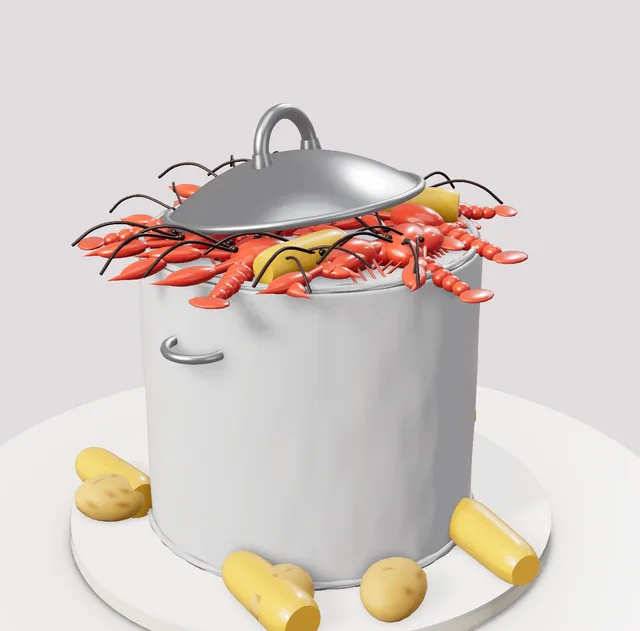
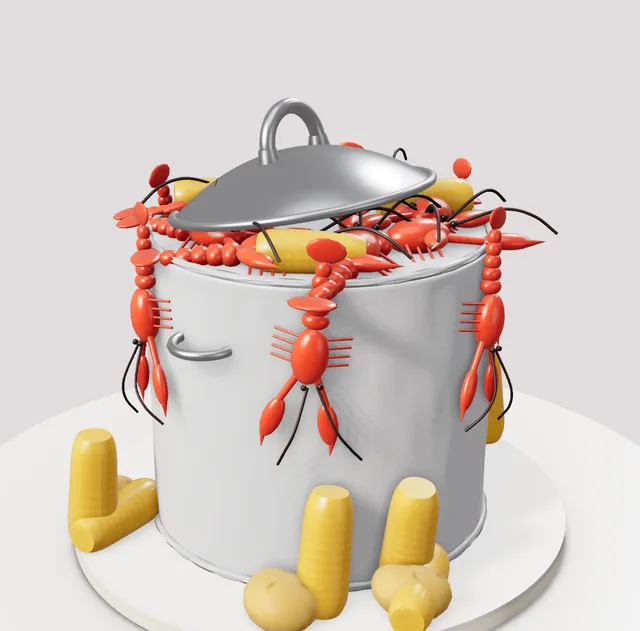
Crawfish pot: crawfish hanging over the rim, standing corn (new decor)
Claude-Session: https://claude.ai/code/session_016sN14hzH19WJ5zrp8o2QGp

diff --git a/studio.html b/studio.html
@@ -1594,6 +1594,15 @@ function scriptTopParts(q,c,mode,dc){const MF=MSG_FONTS[(dc&&dc.font)||'dancing'
 DECOR.scripttop={label:'Script Word Topper',layouts:['cluster'],layout:'cluster',count:1,max:1,color:'#d9a08a',colors:['#d9a08a','#d4ae5a','#c9ccd2','#1d1b1f','#fbf7f1'],sp:.4,side:'up',sink:.6,tilt:[0,0],spin:0,make:scriptTopParts};
 DECOR_ICONS.scripttop=di('<text x="20" y="24" font-size="13" text-anchor="middle" fill="#d9a08a" font-style="italic" font-family="cursive">love</text>');
 {const c=DECOR_CATS.find(x=>x.key==='signature');c.items.push('scripttop')}
+// ---- crawfish hanging over a rim (side piece) ----
+function crawHangParts(q,c,mode,dc){const p=crawfishParts(q,c,mode,dc);for(const[,g]of p){g.rotateX(PI/2);g.rotateZ((q()-.5)*.7)}return p}
+DECOR.crawhang={label:'Crawfish Over The Rim',layouts:['band'],layout:'band',count:5,max:16,color:'#d2381e',colors:['#d2381e','#b52a14'],sp:.9,roll:.3,sink:0,embed:.02,make:crawHangParts};
+DECOR_ICONS.crawhang=DECOR_ICONS.crawfish;
+{const c=DECOR_CATS.find(x=>x.key==='signature');c.items.push('crawhang')}
+function cornUpParts(q,c,mode,dc){const p=cornParts(q,c,mode,dc);for(const[,g]of p){g.computeBoundingBox();const b=g.boundingBox;g.rotateZ(PI/2+(q()-.5)*.35)}return p}
+DECOR.cornup={label:'Standing Corn',layouts:['cluster','crown','scatter'],layout:'cluster',count:3,max:12,color:'#f2c230',colors:['#f2c230','#f6d76a'],sp:.7,side:'up',sink:.02,tilt:[0,0],make:cornUpParts};
+DECOR_ICONS.cornup=DECOR_ICONS.corncob;
+{const c=DECOR_CATS.find(x=>x.key==='signature');c.items.push('cornup')}
 
 // ---------- Signature cakes: Sprinkle Me Silly's real cakes, rebuilt in the Studio ----------
 const SIG='Signature Cakes';
@@ -1648,7 +1657,7 @@ THEMES.unshift(
   newTier(11,4.8,{color:'#fbf7f1',finish:'fondant',top:'none',bottom:'none',stencil:{pattern:'chevron',color:'#1d1b1f',size:1.4,height:4.6},decor:[DC('plaque','band',1,{color:'#1d1b1f',size:270,R:5.5,rot:55,y:.3}),DC('clapper','band',1,{size:210,rot:-40}),DC('stars','scatter',14,{mix:['#f38ab0','#5fc8d8','#f2c230'],size:210}),DC('dragees','scatter',20,{color:'#f2c230',size:140})]}),
   newTier(7.8,8.4,{color:'#fbf7f1',finish:'fondant',prof:'bucket',stencil:{pattern:'stripes',color:'#d62839',size:1.3,height:8.2},top:'rope',pipe:'#fbf7f1',bottom:'none',decor:[DC('poplabel','band',1,{color:'#d62839',size:200,R:3.7,rot:55,y:.6}),DC('popcorn','cluster',120,{color:'#f8efd4',size:260}),DC('ticket','cluster',1,{color:'#f6cf5a',size:300,center:true,face:95}),DC('stars','cluster',5,{mix:['#f38ab0','#5fc8d8','#f2c230'],size:240})]})]}},
  {key:'sig_crawfish',name:'Crawfish Boil Pot',tag:SIG,blurb:'A brushed silver stock pot cake with a tilted lid and loop handles, spilling over with crawfish and corn, with potatoes and corn on the board.',d:{board:'white',boardColor:'#ece5d3',topper:'none',tiers:[
-  newTier(8,7,{color:'#c4c8ce',finish:'fondant',texture:'brushed',top:'rope',pipe:'#aeb2b8',bottom:'rope',bottomColor:'#aeb2b8',decor:[DC('pothandle','band',2,{color:'#c9ccd2',size:160,y:2,rot:95}),DC('potlid2','cluster',1,{color:'#c9ccd2',size:300,center:true}),DC('crawfish','crown',9,{color:'#d2381e',size:300}),DC('corncob','crown',3,{color:'#eeb31c',size:250,rot:60}),DC('crawfish','cascade',5,{color:'#d2381e',rot:-60,size:260}),DC('crawfish','cascade',4,{color:'#d2381e',rot:-10,size:250}),DC('corncob','cluster',5,{color:'#eeb31c',size:300,where:'board'}),DC('potato','cluster',5,{color:'#c99a45',size:320,where:'board'})]})]}},
+  newTier(8,7,{color:'#c4c8ce',finish:'fondant',texture:'brushed',top:'rope',pipe:'#aeb2b8',bottom:'rope',bottomColor:'#aeb2b8',decor:[DC('pothandle','band',2,{color:'#c9ccd2',size:160,y:2,rot:95}),DC('potlid2','cluster',1,{color:'#c9ccd2',size:300,center:true}),DC('crawfish','crown',9,{color:'#d2381e',size:300}),DC('corncob','crown',3,{color:'#eeb31c',size:250,rot:60}),DC('crawhang','band',6,{color:'#d2381e',size:240,y:2.2}),DC('cornup','cluster',4,{color:'#eeb31c',size:300,where:'board',seed:3}),DC('corncob','cluster',2,{color:'#eeb31c',size:280,where:'board',seed:9}),DC('potato','cluster',5,{color:'#c99a45',size:320,where:'board'})]})]}},
  {key:'sig_bee',name:'Bumble Bee Garden',tag:SIG,blurb:'A smooth yellow dome bee head with big eyes and a smile, a fuzzy black piped collar, looped antennae and a garden of piped grass and sugar flowers.',d:{board:'white',boardColor:'#c9d96a',topper:'none',tiers:[
   newTier(13,1.6,{color:'#5cae4a',texture:'grass',top:'none',bottom:'none',decor:[DC('daisies','scatter',12,{color:'#fbf7f1',size:130}),DC('blossoms','scatter',18,{mix:['#f3a6c0','#f2c230','#7fb0e8','#e8475f'],size:130})]}),
   newTier(10.4,2.2,{color:'#1d1b1f',texture:'fur',top:'none',bottom:'none'}),

diff --git a/tools/signature-decor.js b/tools/signature-decor.js
@@ -262,6 +262,15 @@ function scriptTopParts(q,c,mode,dc){const MF=MSG_FONTS[(dc&&dc.font)||'dancing'
 DECOR.scripttop={label:'Script Word Topper',layouts:['cluster'],layout:'cluster',count:1,max:1,color:'#d9a08a',colors:['#d9a08a','#d4ae5a','#c9ccd2','#1d1b1f','#fbf7f1'],sp:.4,side:'up',sink:.6,tilt:[0,0],spin:0,make:scriptTopParts};
 DECOR_ICONS.scripttop=di('<text x="20" y="24" font-size="13" text-anchor="middle" fill="#d9a08a" font-style="italic" font-family="cursive">love</text>');
 {const c=DECOR_CATS.find(x=>x.key==='signature');c.items.push('scripttop')}
+// ---- crawfish hanging over a rim (side piece) ----
+function crawHangParts(q,c,mode,dc){const p=crawfishParts(q,c,mode,dc);for(const[,g]of p){g.rotateX(PI/2);g.rotateZ((q()-.5)*.7)}return p}
+DECOR.crawhang={label:'Crawfish Over The Rim',layouts:['band'],layout:'band',count:5,max:16,color:'#d2381e',colors:['#d2381e','#b52a14'],sp:.9,roll:.3,sink:0,embed:.02,make:crawHangParts};
+DECOR_ICONS.crawhang=DECOR_ICONS.crawfish;
+{const c=DECOR_CATS.find(x=>x.key==='signature');c.items.push('crawhang')}
+function cornUpParts(q,c,mode,dc){const p=cornParts(q,c,mode,dc);for(const[,g]of p){g.computeBoundingBox();const b=g.boundingBox;g.rotateZ(PI/2+(q()-.5)*.35)}return p}
+DECOR.cornup={label:'Standing Corn',layouts:['cluster','crown','scatter'],layout:'cluster',count:3,max:12,color:'#f2c230',colors:['#f2c230','#f6d76a'],sp:.7,side:'up',sink:.02,tilt:[0,0],make:cornUpParts};
+DECOR_ICONS.cornup=DECOR_ICONS.corncob;
+{const c=DECOR_CATS.find(x=>x.key==='signature');c.items.push('cornup')}
 
 // ---------- Signature cakes: Sprinkle Me Silly's real cakes, rebuilt in the Studio ----------
 const SIG='Signature Cakes';
@@ -316,7 +325,7 @@ THEMES.unshift(
   newTier(11,4.8,{color:'#fbf7f1',finish:'fondant',top:'none',bottom:'none',stencil:{pattern:'chevron',color:'#1d1b1f',size:1.4,height:4.6},decor:[DC('plaque','band',1,{color:'#1d1b1f',size:270,R:5.5,rot:55,y:.3}),DC('clapper','band',1,{size:210,rot:-40}),DC('stars','scatter',14,{mix:['#f38ab0','#5fc8d8','#f2c230'],size:210}),DC('dragees','scatter',20,{color:'#f2c230',size:140})]}),
   newTier(7.8,8.4,{color:'#fbf7f1',finish:'fondant',prof:'bucket',stencil:{pattern:'stripes',color:'#d62839',size:1.3,height:8.2},top:'rope',pipe:'#fbf7f1',bottom:'none',decor:[DC('poplabel','band',1,{color:'#d62839',size:200,R:3.7,rot:55,y:.6}),DC('popcorn','cluster',120,{color:'#f8efd4',size:260}),DC('ticket','cluster',1,{color:'#f6cf5a',size:300,center:true,face:95}),DC('stars','cluster',5,{mix:['#f38ab0','#5fc8d8','#f2c230'],size:240})]})]}},
  {key:'sig_crawfish',name:'Crawfish Boil Pot',tag:SIG,blurb:'A brushed silver stock pot cake with a tilted lid and loop handles, spilling over with crawfish and corn, with potatoes and corn on the board.',d:{board:'white',boardColor:'#ece5d3',topper:'none',tiers:[
-  newTier(8,7,{color:'#c4c8ce',finish:'fondant',texture:'brushed',top:'rope',pipe:'#aeb2b8',bottom:'rope',bottomColor:'#aeb2b8',decor:[DC('pothandle','band',2,{color:'#c9ccd2',size:160,y:2,rot:95}),DC('potlid2','cluster',1,{color:'#c9ccd2',size:300,center:true}),DC('crawfish','crown',9,{color:'#d2381e',size:300}),DC('corncob','crown',3,{color:'#eeb31c',size:250,rot:60}),DC('crawfish','cascade',5,{color:'#d2381e',rot:-60,size:260}),DC('crawfish','cascade',4,{color:'#d2381e',rot:-10,size:250}),DC('corncob','cluster',5,{color:'#eeb31c',size:300,where:'board'}),DC('potato','cluster',5,{color:'#c99a45',size:320,where:'board'})]})]}},
+  newTier(8,7,{color:'#c4c8ce',finish:'fondant',texture:'brushed',top:'rope',pipe:'#aeb2b8',bottom:'rope',bottomColor:'#aeb2b8',decor:[DC('pothandle','band',2,{color:'#c9ccd2',size:160,y:2,rot:95}),DC('potlid2','cluster',1,{color:'#c9ccd2',size:300,center:true}),DC('crawfish','crown',9,{color:'#d2381e',size:300}),DC('corncob','crown',3,{color:'#eeb31c',size:250,rot:60}),DC('crawhang','band',6,{color:'#d2381e',size:240,y:2.2}),DC('cornup','cluster',4,{color:'#eeb31c',size:300,where:'board',seed:3}),DC('corncob','cluster',2,{color:'#eeb31c',size:280,where:'board',seed:9}),DC('potato','cluster',5,{color:'#c99a45',size:320,where:'board'})]})]}},
  {key:'sig_bee',name:'Bumble Bee Garden',tag:SIG,blurb:'A smooth yellow dome bee head with big eyes and a smile, a fuzzy black piped collar, looped antennae and a garden of piped grass and sugar flowers.',d:{board:'white',boardColor:'#c9d96a',topper:'none',tiers:[
   newTier(13,1.6,{color:'#5cae4a',texture:'grass',top:'none',bottom:'none',decor:[DC('daisies','scatter',12,{color:'#fbf7f1',size:130}),DC('blossoms','scatter',18,{mix:['#f3a6c0','#f2c230','#7fb0e8','#e8475f'],size:130})]}),
   newTier(10.4,2.2,{color:'#1d1b1f',texture:'fur',top:'none',bottom:'none'}),

diff --git a/tools/sig-themes.js b/tools/sig-themes.js
@@ -51,7 +51,7 @@ THEMES.unshift(
   newTier(11,4.8,{color:'#fbf7f1',finish:'fondant',top:'none',bottom:'none',stencil:{pattern:'chevron',color:'#1d1b1f',size:1.4,height:4.6},decor:[DC('plaque','band',1,{color:'#1d1b1f',size:270,R:5.5,rot:55,y:.3}),DC('clapper','band',1,{size:210,rot:-40}),DC('stars','scatter',14,{mix:['#f38ab0','#5fc8d8','#f2c230'],size:210}),DC('dragees','scatter',20,{color:'#f2c230',size:140})]}),
   newTier(7.8,8.4,{color:'#fbf7f1',finish:'fondant',prof:'bucket',stencil:{pattern:'stripes',color:'#d62839',size:1.3,height:8.2},top:'rope',pipe:'#fbf7f1',bottom:'none',decor:[DC('poplabel','band',1,{color:'#d62839',size:200,R:3.7,rot:55,y:.6}),DC('popcorn','cluster',120,{color:'#f8efd4',size:260}),DC('ticket','cluster',1,{color:'#f6cf5a',size:300,center:true,face:95}),DC('stars','cluster',5,{mix:['#f38ab0','#5fc8d8','#f2c230'],size:240})]})]}},
  {key:'sig_crawfish',name:'Crawfish Boil Pot',tag:SIG,blurb:'A brushed silver stock pot cake with a tilted lid and loop handles, spilling over with crawfish and corn, with potatoes and corn on the board.',d:{board:'white',boardColor:'#ece5d3',topper:'none',tiers:[
-  newTier(8,7,{color:'#c4c8ce',finish:'fondant',texture:'brushed',top:'rope',pipe:'#aeb2b8',bottom:'rope',bottomColor:'#aeb2b8',decor:[DC('pothandle','band',2,{color:'#c9ccd2',size:160,y:2,rot:95}),DC('potlid2','cluster',1,{color:'#c9ccd2',size:300,center:true}),DC('crawfish','crown',9,{color:'#d2381e',size:300}),DC('corncob','crown',3,{color:'#eeb31c',size:250,rot:60}),DC('crawfish','cascade',5,{color:'#d2381e',rot:-60,size:260}),DC('crawfish','cascade',4,{color:'#d2381e',rot:-10,size:250}),DC('corncob','cluster',5,{color:'#eeb31c',size:300,where:'board'}),DC('potato','cluster',5,{color:'#c99a45',size:320,where:'board'})]})]}},
+  newTier(8,7,{color:'#c4c8ce',finish:'fondant',texture:'brushed',top:'rope',pipe:'#aeb2b8',bottom:'rope',bottomColor:'#aeb2b8',decor:[DC('pothandle','band',2,{color:'#c9ccd2',size:160,y:2,rot:95}),DC('potlid2','cluster',1,{color:'#c9ccd2',size:300,center:true}),DC('crawfish','crown',9,{color:'#d2381e',size:300}),DC('corncob','crown',3,{color:'#eeb31c',size:250,rot:60}),DC('crawhang','band',6,{color:'#d2381e',size:240,y:2.2}),DC('cornup','cluster',4,{color:'#eeb31c',size:300,where:'board',seed:3}),DC('corncob','cluster',2,{color:'#eeb31c',size:280,where:'board',seed:9}),DC('potato','cluster',5,{color:'#c99a45',size:320,where:'board'})]})]}},
  {key:'sig_bee',name:'Bumble Bee Garden',tag:SIG,blurb:'A smooth yellow dome bee head with big eyes and a smile, a fuzzy black piped collar, looped antennae and a garden of piped grass and sugar flowers.',d:{board:'white',boardColor:'#c9d96a',topper:'none',tiers:[
   newTier(13,1.6,{color:'#5cae4a',texture:'grass',top:'none',bottom:'none',decor:[DC('daisies','scatter',12,{color:'#fbf7f1',size:130}),DC('blossoms','scatter',18,{mix:['#f3a6c0','#f2c230','#7fb0e8','#e8475f'],size:130})]}),
   newTier(10.4,2.2,{color:'#1d1b1f',texture:'fur',top:'none',bottom:'none'}),

diff --git a/tools/sig-extra.js b/tools/sig-extra.js
@@ -87,3 +87,12 @@ function scriptTopParts(q,c,mode,dc){const MF=MSG_FONTS[(dc&&dc.font)||'dancing'
 DECOR.scripttop={label:'Script Word Topper',layouts:['cluster'],layout:'cluster',count:1,max:1,color:'#d9a08a',colors:['#d9a08a','#d4ae5a','#c9ccd2','#1d1b1f','#fbf7f1'],sp:.4,side:'up',sink:.6,tilt:[0,0],spin:0,make:scriptTopParts};
 DECOR_ICONS.scripttop=di('<text x="20" y="24" font-size="13" text-anchor="middle" fill="#d9a08a" font-style="italic" font-family="cursive">love</text>');
 {const c=DECOR_CATS.find(x=>x.key==='signature');c.items.push('scripttop')}
+// ---- crawfish hanging over a rim (side piece) ----
+function crawHangParts(q,c,mode,dc){const p=crawfishParts(q,c,mode,dc);for(const[,g]of p){g.rotateX(PI/2);g.rotateZ((q()-.5)*.7)}return p}
+DECOR.crawhang={label:'Crawfish Over The Rim',layouts:['band'],layout:'band',count:5,max:16,color:'#d2381e',colors:['#d2381e','#b52a14'],sp:.9,roll:.3,sink:0,embed:.02,make:crawHangParts};
+DECOR_ICONS.crawhang=DECOR_ICONS.crawfish;
+{const c=DECOR_CATS.find(x=>x.key==='signature');c.items.push('crawhang')}
+function cornUpParts(q,c,mode,dc){const p=cornParts(q,c,mode,dc);for(const[,g]of p){g.computeBoundingBox();const b=g.boundingBox;g.rotateZ(PI/2+(q()-.5)*.35)}return p}
+DECOR.cornup={label:'Standing Corn',layouts:['cluster','crown','scatter'],layout:'cluster',count:3,max:12,color:'#f2c230',colors:['#f2c230','#f6d76a'],sp:.7,side:'up',sink:.02,tilt:[0,0],make:cornUpParts};
+DECOR_ICONS.cornup=DECOR_ICONS.corncob;
+{const c=DECOR_CATS.find(x=>x.key==='signature');c.items.push('cornup')}
